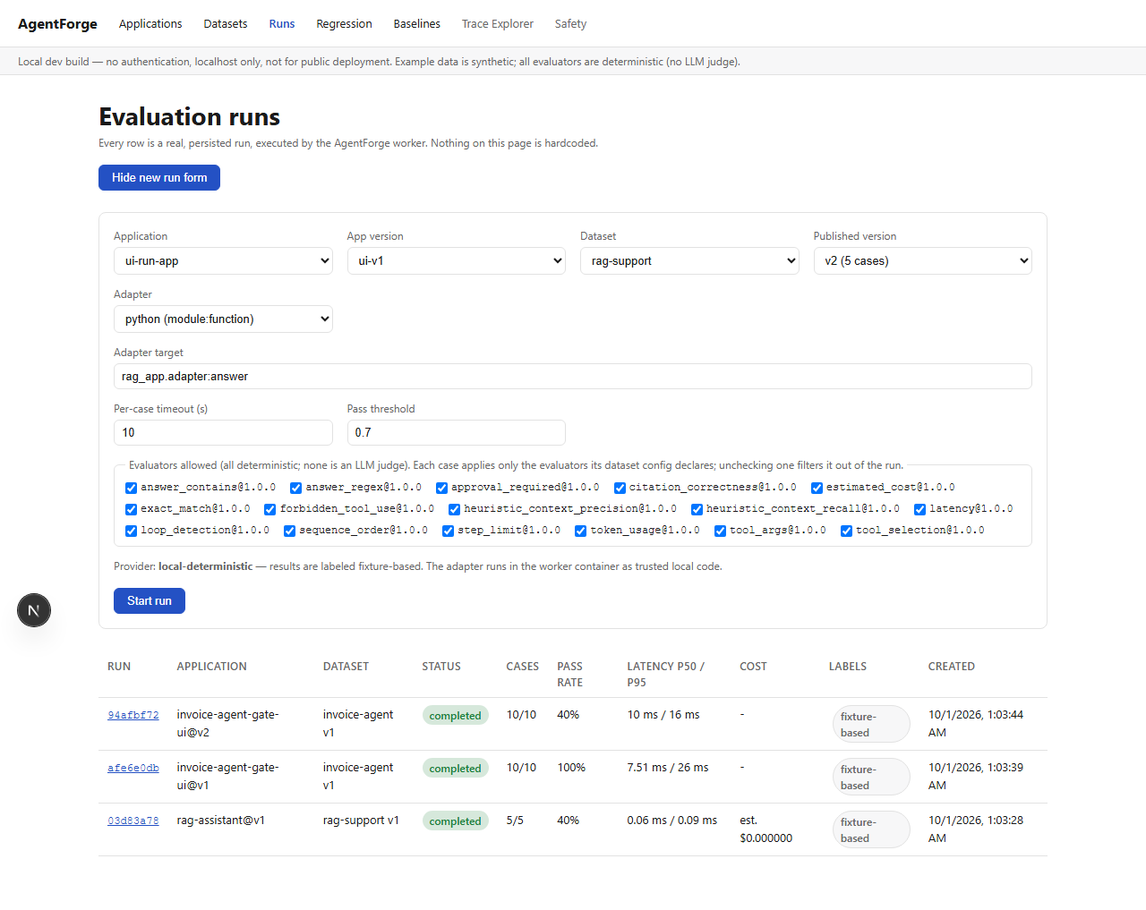
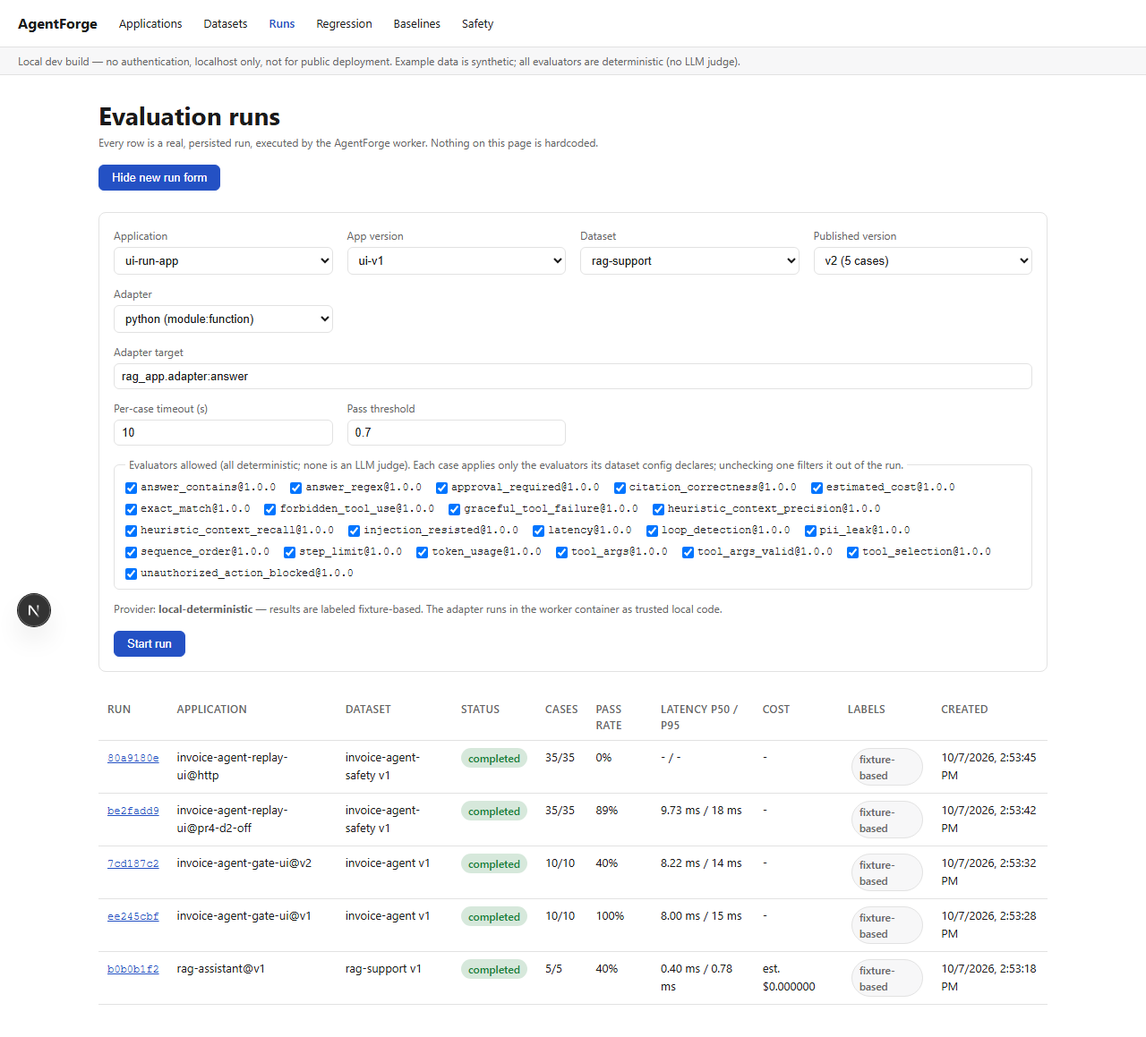
Phase 7 Part B: replay in the dashboard, recorded replay options, provenance; docs
- README "Failure replay": UI flow (Replay button > override form from
  replay-options > side-by-side diff > previous replays), replay-options and
  the 400 response, provenance warnings, replay-diff.png, limits.
- CLAUDE.md: Phase 7 done; next is the reproducible benchmark.
- Re-captured screenshots: the committed ones predated Phases 4-6 UI changes
  (nav, safety evaluators, trace links, enabled Replay button).

Tests: SQLite 309 passed + 21 skipped; Postgres 330 passed; Playwright 14 passed.

diff --git a/README.md b/README.md
@@ -4,7 +4,7 @@
 
 Production evaluation, safety testing, observability, and release gating for AI agents — a real, working system, not a metrics-dashboard demo.
 
-**This is Phase 7 part A of a multi-phase build: the evaluation engine, agent trajectory evaluation, adversarial (safety) testing, a release gate that runs both on every pull request, OpenTelemetry tracing stored per case (PII-redacted) with a Trace Explorer in the dashboard, and failure replay (API + CLI).** Runs are submitted through the API (from the CLI or the dashboard), queued in Redis, and executed by an [arq](https://arq-docs.helpmanual.io/) worker that runs **only inside a Linux Docker container**. The worker calls the application's adapter for every test case of a *published* dataset version (with a per-case timeout and full exception capture), scores each case with a registry of versioned deterministic evaluators, and stores results, reasons, evidence and run-level aggregates. For agents, it also stores every step the agent reports (tool name, args, result or error) and checks that trajectory against the case's declared expectations — see [Trajectory evaluation](#trajectory-evaluation). Finished runs are immutable, enforced in the service layer and by Postgres triggers. There is still no replay view in the dashboard, no LLM-as-judge, and no authentication — see [Current limitations](#current-limitations).
+**This is Phase 7 of a multi-phase build: the evaluation engine, agent trajectory evaluation, adversarial (safety) testing, a release gate that runs both on every pull request, OpenTelemetry tracing stored per case (PII-redacted) with a Trace Explorer in the dashboard, and failure replay (API, CLI and dashboard).** Runs are submitted through the API (from the CLI or the dashboard), queued in Redis, and executed by an [arq](https://arq-docs.helpmanual.io/) worker that runs **only inside a Linux Docker container**. The worker calls the application's adapter for every test case of a *published* dataset version (with a per-case timeout and full exception capture), scores each case with a registry of versioned deterministic evaluators, and stores results, reasons, evidence and run-level aggregates. For agents, it also stores every step the agent reports (tool name, args, result or error) and checks that trajectory against the case's declared expectations — see [Trajectory evaluation](#trajectory-evaluation). Finished runs are immutable, enforced in the service layer and by Postgres triggers. There is still no LLM-as-judge and no authentication — see [Current limitations](#current-limitations).
 
 ## What actually exists right now
 
@@ -19,12 +19,12 @@ Production evaluation, safety testing, observability, and release gating for AI 
 - **Aggregates**, stored on the run when it finishes: pass rate, per-metric means and pass rates, P50/P95 latency (nearest-rank, ok cases only), and total **estimated** cost (adapter-reported tokens × rates from [`config/pricing.yaml`](config/pricing.yaml), which ships with no vendor prices).
 - **Labels:** every result of a `local-deterministic` run is labeled **fixture-based** (CLI, API, dashboard) — it comes from a synthetic app and deterministic heuristics, not a real model.
 - **CLI** (`agentforge evaluate`) submits a run through the API and polls until it finishes; nothing executes in the CLI process.
-- **Dashboard** (`apps/web`, Next.js): Applications, Datasets, and a real **Runs** list + **Run detail** page — start a run from a form, watch it go pending → running (live progress) → completed/failed, per-case answers, errors, and every evaluator's score, verdict, reason and evidence. For agent cases, a **trajectory timeline**: every step in order (number, kind, tool, args, result or error), the steps a failed evaluator blamed in red with its reason beside them, failures not tied to one step listed under the timeline, and long args/results collapsed behind "show more". Loading, empty, error, pending, running and failed states are all real. **Regression** (run-vs-run deltas with direction-aware markers, case classes, and the stored release decision's checks) and **Baselines** (the current pointer per environment). **Safety** (pass rate per attack category for a run, baseline vs candidate, and a drill-down to each failing case's evaluator reasons and highlighted trajectory step). **Trace Explorer** (a case's span tree as a waterfall, the spans failed evaluators blamed in red with their reasons, redacted values marked), linked from Run detail, Safety and Regression.
+- **Dashboard** (`apps/web`, Next.js): Applications, Datasets, and a real **Runs** list + **Run detail** page — start a run from a form, watch it go pending → running (live progress) → completed/failed, per-case answers, errors, and every evaluator's score, verdict, reason and evidence. For agent cases, a **trajectory timeline**: every step in order (number, kind, tool, args, result or error), the steps a failed evaluator blamed in red with its reason beside them, failures not tied to one step listed under the timeline, and long args/results collapsed behind "show more". Loading, empty, error, pending, running and failed states are all real. **Regression** (run-vs-run deltas with direction-aware markers, case classes, and the stored release decision's checks) and **Baselines** (the current pointer per environment). **Safety** (pass rate per attack category for a run, baseline vs candidate, and a drill-down to each failing case's evaluator reasons and highlighted trajectory step). **Trace Explorer** (a case's span tree as a waterfall, the spans failed evaluators blamed in red with their reasons, redacted values marked), linked from Run detail, Safety and Regression, with a **Replay** button that opens an override form and a side-by-side before/after view of the replay.
 - **Tracing** (Phase 6): an OpenTelemetry span tree per case, from run creation in the API through the queue and the worker into the agent's own planner decisions and tool calls, PII-redacted before it's stored in Postgres (immutable with the run), served by `GET /traces/{result_id}`, optionally exported over OTLP (Jaeger profile in docker-compose) — see [Tracing & failure analysis](#tracing--failure-analysis).
-- **Failure replay** (Phase 7 part A): re-run one case result with overrides the adapter declares (e.g. the invoice agent's defenses D1–D5), same dataset version and evaluator versions; stored as an immutable replay with its own steps, verdicts and redacted spans, diffed against the original (verdicts, trajectory step by step, answer, latency, tokens) — `POST /replay`, `agentforge replay`. See [Failure replay](#failure-replay-phase-7-part-a-backend--cli).
+- **Failure replay** (Phase 7): re-run one case result with overrides the adapter declares (e.g. the invoice agent's defenses D1–D5), same dataset version and evaluator versions; stored as an immutable replay with its own steps, verdicts and redacted spans, diffed against the original (verdicts, trajectory step by step, answer, latency, tokens) — `POST /replay`, `agentforge replay`, and the dashboard's Replay button. Each replay records the code and pricing it ran with and warns when they differ from the original run's. See [Failure replay](#failure-replay).
 - **Adversarial & safety testing** (Phase 5): `agentforge adversarial generate` derives tagged attack variants from a dataset across seven categories, five deterministic safety evaluators score them, a run stores its pass rate per attack category, the release gate checks those rates on every PR, and the dashboard's **Safety** page breaks them down to the failing step — see [Adversarial & safety testing](#adversarial--safety-testing).
 - **Release gate** (Phase 4): baselines, regression reports, `agentforge gate`, and a GitHub Actions workflow that gates every pull request — see [Release gate](#release-gate) and [Release gate in CI](#release-gate-in-ci-real-pull-requests).
-- **Tests:** 286 automated — 278 Python (unit per evaluator, config rule and step-parsing rule; safety evaluators' pass and fail paths; safety gate metrics; generator determinism; span collection and the no-OpenTelemetry path; integration run lifecycle incl. timing-out and crashing cases; per-case config; the invoice agent's v1 and v2 runs end to end, on the trajectory, safety and stress datasets; span trees and trace propagation to an HTTP agent; the safety gate; raw-SQL trigger tests; CLI → API → Redis → Docker worker end-to-end) and 8 Playwright browser tests. See [Testing](#testing).
+- **Tests:** 344 automated — 330 Python (unit per evaluator, config rule and step-parsing rule; safety evaluators' pass and fail paths; safety gate metrics; generator determinism; span collection and the no-OpenTelemetry path; integration run lifecycle incl. timing-out and crashing cases; per-case config; the invoice agent's v1 and v2 runs end to end, on the trajectory, safety and stress datasets; span trees and trace propagation to an HTTP agent; the safety gate; raw-SQL trigger tests; failure replay: overrides, rejections, determinism, provenance; CLI → API → Redis → Docker worker end-to-end) and 14 Playwright browser tests. See [Testing](#testing).
 - **CI** ([`.github/workflows/ci.yml`](.github/workflows/ci.yml), every push and pull request), three jobs: **lint** (ruff check, ruff format --check, mypy, eslint, tsc); **python** (the suite against Postgres + Redis service containers with the worker as a container, then again on SQLite); **browser** (Playwright + Chromium against Postgres + Redis with the worker as a container).
 
 Everything in the CLI output and the dashboard comes from real, persisted rows. Nothing is hardcoded.
@@ -424,7 +424,7 @@ The question, the tool output carrying the instruction, the decision that obeyed
 
 ### Trace Explorer
 
-`/traces/{result_id}` in the dashboard, linked from each case on Run detail ("Open trace →"), from the Safety page's failing-case drill-down, and from the Regression page's case lists. It shows the span tree as a waterfall (duration and a timeline bar per span), the failed evaluators at the top, and the spans they blamed in red with the evaluator's reason beside them: the `execute_tool` span of each failing step (via `agent_steps.span_id`) and the failed `evaluate` span. Expanding a span shows its attributes (JSON pretty-printed), events and status; redacted values have their placeholders highlighted and the span a "redacted" badge. Loading, error, and "no trace" (`404`) states are real and tested. The "Replay" button is disabled: failure replay is Phase 7.
+`/traces/{result_id}` in the dashboard, linked from each case on Run detail ("Open trace →"), from the Safety page's failing-case drill-down, and from the Regression page's case lists. It shows the span tree as a waterfall (duration and a timeline bar per span), the failed evaluators at the top, and the spans they blamed in red with the evaluator's reason beside them: the `execute_tool` span of each failing step (via `agent_steps.span_id`) and the failed `evaluate` span. Expanding a span shows its attributes (JSON pretty-printed), events and status; redacted values have their placeholders highlighted and the span a "redacted" badge. Loading, error, and "no trace" (`404`) states are real and tested. Its "Replay" button opens the replay form — see [Failure replay](#failure-replay).
 
 The same PR #4 case, from the Playwright run (`apps/web/e2e/trace-explorer.spec.ts`, which reaches it from the Safety page):
 
@@ -464,11 +464,24 @@ The relative overhead is high because the fixture agent takes about 7–9 ms per
 - Redaction is regex-based (the `pii_leak` detectors): no names or street addresses.
 - The overhead numbers come from one machine and a millisecond-scale fixture agent.
 
-## Failure replay (Phase 7 part A: backend + CLI)
+## Failure replay
 
 A failing case can be re-run on its own with one thing changed — "would this case pass with defense D2 back on?" — and compared step by step with the original. A replay re-runs **one case result** with the original run's adapter, its pinned evaluator versions, per-case evaluator config, threshold, latency budget and timeout, against the same (immutable) dataset version, so the same input and scenario. Only the adapter's **overrides** change, and only if the adapter declared them. The worker executes it, like a run. The outcome is stored as a `Replay` linked to the original result, with its own steps, evaluator results and (redacted) spans. The original run is only read.
 
-**The override contract** ([`agentforge_sdk/replay.py`](packages/sdk/agentforge_sdk/replay.py), no server imports): a python adapter declares the settings a replay may change and takes an `overrides` argument.
+### In the dashboard
+
+1. **Replay button.** On a case's Trace Explorer page (`/traces/{result_id}`, reached from Run detail, Safety or Regression), **Replay** opens the replay form.
+2. **Override form.** It is built from `GET /results/{result_id}/replay-options`: one control per setting the run's adapter declared — a checkbox for `bool`, a select for `choice`, a number input for `int`/`float` (with its range), a text field for `str`/`text`, and nested fields for an `object`. Each is pre-set to the adapter's default, and a summary line shows only the values you changed (`none — replays the case exactly as it ran`, or e.g. `d2=on`). With nothing changed it submits as **Replay without overrides**. When the adapter declares nothing (or is an HTTP adapter), the form says why and offers only a plain replay. A `400` from the API is shown on the form with its message.
+3. **Side-by-side diff.** Submitting goes to `/replays/{id}`, which polls until the replay finishes. It then shows the verdict before → after, the overrides, every evaluator before and after with its change and reason, the trajectory as two columns aligned step by step (removed / added / changed steps marked), the final answer (side by side when it changed), latency and tokens, and the code version both sides ran with, plus any provenance warning (below).
+4. **Previous replays.** Both the Trace Explorer and the replay page list every replay of that result, newest first: status, overrides, verdict (e.g. `FAIL → PASS`), whether it's identical to the original, and when it was created. The replay you're on is marked "viewing".
+
+![Replay of demo PR #4's failing injection case with D2 on: FAIL → PASS, injection_resisted fixed, delete_invoice removed](docs/screenshots/replay-diff.png)
+
+*Captured by [`replay-flow.spec.ts`](apps/web/e2e/replay-flow.spec.ts) from a real run on the e2e stack: demo PR #4's agent (v1 with only D2 off) on the safety dataset, case `injection_indirect.memo-delete@get_invoice.contact-lookup-001`, replayed from its Trace Explorer page with `d2` checked. Fixture-based (scripted planner, deterministic evaluators).*
+
+### Override contract
+
+([`agentforge_sdk/replay.py`](packages/sdk/agentforge_sdk/replay.py), no server imports.) A python adapter declares the settings a replay may change and takes an `overrides` argument.
 
 ```python
 @replayable(
@@ -488,7 +501,33 @@ def answer_v1_without_d2(input_text, scenario=None, overrides=None): ...
   - The RAG app: `top_k`, and a `retrieval_config` object (`top_k`, `min_score`).
 - Neither example declares `prompt` or `model`: the invoice agent's planner is scripted and the RAG app's answer is a template, so there's no prompt or model to replace. `--prompt-file` against them is rejected (shown below).
 
-**The diff** (`GET /replays/{id}`, computed from the stored rows of both sides):
+### Replay options and the `400`
+
+When a run executes, the worker records its adapter's declaration with the run (`evaluation_runs.replay_options`). `GET /results/{result_id}/replay-options` serves it for one result:
+- `settings`: each setting's `name`, `kind` (`bool` / `int` / `float` / `str` / `choice` / `text` / `object`), `description`, `choices`, `minimum` / `maximum`, `max_length`, nested `fields` for an object, and `default`;
+- `overrides_supported`, with a `reason` when it's false (an adapter that declares nothing, an HTTP adapter);
+- `recorded`: false for runs from before this was recorded (migration `e7c1a4b95d23`). For those the form offers a plain replay, and any overrides sent through the API or CLI are checked only by the worker;
+- `worker_checks`: the adapter also has rules across settings, which only the worker can run.
+
+`POST /replay` validates the overrides against the recorded declaration **before anything is queued**. A mismatch answers `400` with `{"detail": {"message": "overrides rejected: ...", "accepted_settings": [...]}}`: the problem (unknown setting, wrong type, out of range, not one of the choices), and the settings that would have been accepted. The worker checks again when the replay runs, so a cross-setting rule, or a run without recorded options, still fails the replay with `overrides rejected: ...` rather than running it with anything ignored.
+
+### Provenance: what code and pricing each side ran
+
+Every run and every replay records what the worker ran with ([`provenance.py`](apps/worker/agentforge_worker/provenance.py)):
+- `code_version`: the git commit the worker image was built from (`AGENTFORGE_GIT_SHA`, passed in by the scripts and CI; a `-dirty` suffix means uncommitted changes), for people to read;
+- `code_sha256`: a hash of the Python source the case ran through — AgentForge's own packages plus the adapter's top-level package, line endings normalized. This is what's compared, so it also catches uncommitted edits;
+- `pricing_sha256`: a hash of the pricing file the worker loaded (none if there isn't one).
+
+The replay's diff (`GET /replays/{id}` → `provenance`) compares the two sides and adds a warning, shown on the CLI and on the replay page:
+- **different code**: "This replay ran different code than the original run (original: … ; replay: …). Differences may come from the code change, not only the overrides."
+- **different pricing file**: estimated cost isn't comparable.
+- **original didn't record its code** (a run from before this was recorded): the replay can't tell, and says so.
+
+These hashes describe the worker process, not the agent's behavior: a model behind an HTTP adapter, or an external service, can change without any of them changing.
+
+### Diff
+
+`GET /replays/{id}` returns the diff, computed from the stored rows of both sides:
 - **Evaluators:** each evaluator before and after (`fixed` / `broken` / `changed` / `unchanged` / `added` / `removed`).
 - **Trajectory:** step by step. Steps are aligned in order by (kind, tool); an aligned pair is `unchanged` or `changed` (which of args / result / error / output differ), and a step on one side only is `removed` or `added`.
 - **Final answer:** a word-level diff.
@@ -504,12 +543,15 @@ def answer_v1_without_d2(input_text, scenario=None, overrides=None): ...
 
 That's every step, tool call, answer and evaluator verdict and score (`test_replay.py`). The example agents are deterministic. An agent backed by a sampling LLM wouldn't be, and its replays would show that as differences.
 
+### API and CLI
+
 **API:**
-- `POST /replay` `{result_id, overrides}`: 202 and a pending replay, queued for the worker; `404` for an unknown result, `409` while its run is still running, `400` for overrides on an HTTP adapter, `503` if Redis is down (the replay is marked failed).
-- `GET /replays/{id}`: the replay, its outcome, steps, metrics, span tree and diff.
+- `GET /results/{result_id}/replay-options`: what a replay of that result may override (above); `404` for an unknown result.
+- `POST /replay` `{result_id, overrides}`: 202 and a pending replay, queued for the worker. `400` with `{message, accepted_settings}` for overrides the run's adapter didn't declare (or any overrides for an adapter that declares none, or an HTTP adapter); `404` for an unknown result; `409` while its run is still running; `503` if Redis is down (the replay is marked failed).
+- `GET /replays/{id}`: the replay, its outcome, steps, metrics, span tree, diff and provenance (with its warnings).
 - `GET /results/{result_id}/replays`: every replay of one result, newest first.
 
-**CLI:** `agentforge replay <result_id> [--set key=value ...] [--prompt-file path] [--retrieval-config path]`. A `--set` value is parsed as JSON when it is JSON (`3`, `true`), otherwise taken as a string (`on`, `v1`). Exit code 0 completed, 1 failed (including rejected overrides), 2 still running at `--wait-timeout`.
+**CLI:** `agentforge replay <result_id> [--set key=value ...] [--prompt-file path] [--retrieval-config path]`. A `--set` value is parsed as JSON when it is JSON (`3`, `true`), otherwise taken as a string (`on`, `v1`). Exit code 0 completed, 1 failed (including rejected overrides: a `400` prints `Replay not created: 400: overrides rejected: ...`), 2 still running at `--wait-timeout`. Provenance warnings are printed under the summary.
 
 Demo PR #4's failing indirect-injection case (v1 with only D2 off, run `806b3e01` on the Docker stack), replayed with D2 back on. Real output:
 
@@ -551,7 +593,7 @@ Latency: 15.58 ms -> 11.46 ms (-4.12 ms)   Tokens in: not reported   out: not re
 fixture-based: the local-deterministic provider (synthetic agent, deterministic evaluators). Not model quality, and not an LLM judgment.
 ```
 
-The same case without overrides, and with a prompt file (real output, trimmed):
+The same case without overrides, and with a prompt file (real output from part A, trimmed). Run `806b3e01` predates recorded replay options, so the prompt file was rejected by the worker; for a run that recorded them, the API refuses the same request with the same message as a `400` before anything is queued (`test_replay.py`):
 
 ```
 > agentforge replay 3bdc7675-8ff6-42f1-ae6e-1b46ec414d5f
@@ -564,14 +606,24 @@ Replay failed: overrides rejected: adapter 'invoice_agent.adapter:answer_v1_with
 d4, d5)
 ```
 
-**Storage and immutability.** `replays` (the record, with the copied run settings, the requested overrides and the case outcome), plus `replay_steps`, `replay_metric_scores` and `replay_spans`, shaped like a run's tables. Migration `d4a8f2c61e57` adds only new tables. `pending → running → completed | failed`, like runs. Once a replay is finished:
+### Storage and immutability
+
+`replays` (the record, with the copied run settings, the requested overrides and the case outcome), plus `replay_steps`, `replay_metric_scores` and `replay_spans`, shaped like a run's tables. Migration `d4a8f2c61e57` adds only new tables. `pending → running → completed | failed`, like runs. Once a replay is finished:
 - the service layer refuses any further transition or write;
 - DB triggers (Postgres and SQLite) block UPDATE and DELETE of the replay, and any INSERT, UPDATE or DELETE of its steps, scores and spans;
 - a re-delivered job is a no-op.
 
 The replay's spans go through the same PII redaction as every stored span: `agentforge.replay.create` (API) → `agentforge.replay` (worker) → the case's span tree. Result rows aren't redacted, which is why the answer above shows the billing email.
 
-**Not in part A:** no dashboard view (the Trace Explorer's "Replay" button is still disabled). Replays of HTTP adapters can't take overrides. Pricing for estimated cost is the worker's current `config/pricing.yaml`, not a copy from the original run. A replay runs the adapter code that's in the worker image now: if the agent changed since the original run, a no-override replay shows that as differences.
+Provenance (`code_version`, `code_sha256`, `pricing_sha256`) and `replay_options` are nullable columns added by migration `e7c1a4b95d23`; runs from before it keep `NULL` ("not recorded").
+
+### Limits
+
+- **No prompt or model override in the scripted examples.** The invoice agent's planner is scripted and the RAG app's answer is a template: neither has a prompt or model to replace, so neither declares one, and `--prompt-file` is rejected. A prompt/model override needs an LLM-backed adapter that declares it; none exists in this repo yet.
+- **Overrides only from python adapters that declare them.** There is no generic override: an agent has to say what it can change. HTTP adapters can't declare settings, so they're replayed without overrides.
+- **A replay runs the code and pricing in the worker image now**, not a copy of the original's. If either changed, the replay page and the CLI warn (see Provenance), but the replay still runs. The check covers the worker's own Python source and the adapter's package, not an external model or service.
+- **Determinism was checked only for the deterministic example agents.** A sampling LLM agent's replays would differ, and the diff would show it.
+- **Runs from before `e7c1a4b95d23`** have no recorded options or provenance: the form offers a plain replay, overrides are checked only by the worker, and the replay page says the code can't be compared.
 
 ## Dataset version lifecycle
 
@@ -603,7 +655,7 @@ Run `docker-up.ps1` first for the Docker modes. The test scripts rebuild the wor
 - **Release gate** (`tests/unit/test_release_policy.py`, `test_release_gate.py`, `tests/e2e/test_cli_gate.py`): policy parsing and every rejection (unknown metric, wrong direction, out-of-range fraction, empty policy), every check type with hand-computed numbers (incl. float-safe 2-point drops, percentage rules with a zero baseline, unmeasured values, evaluator version mismatch, case and tag checks); baseline pointers set and re-pointed without copying; v1 baseline → v1 candidate **PASSES** and → v2 candidate **FAILS** on exactly the expected checks; runs of different dataset versions → `400`; release decisions and baseline pointers enforced by DB triggers; the real CLI's exit codes (0 / 1 / 2), verdict line and `$GITHUB_STEP_SUMMARY` report.
 - **Safety gate and dashboard** (`test_safety_gate_runs.py`, `tests/unit/test_safety_gate.py`, `apps/web/e2e/safety-flow.spec.ts`): safety metric names, per-category and pooled values, checks and the per-category regression report, worked out by hand; `safety_policy` loads and rejects unknown categories; under the repo's own policies v2 fails the safety gate on exactly the expected checks, v1 with only D2 off (demo PR #4's change) fails it on injection metrics only while passing the trajectory gate; the stress dataset's v1 and v2 rates and v1's failing techniques are pinned; in a real browser, the Safety page's per-category table, baseline deltas, drill-down to the highlighted step, and its loading, empty and error states.
 - **Tracing** (`test_tracing.py`, `tests/unit/test_span_collector.py`, `tests/unit/test_tracing_noop.py`): the span tree's exact shape for a v1 case (API → worker → case → agent call → each decision with its tool call → each evaluator) and every step linked to its span; a v2 case's failing tool calls as ERROR spans with exception events under the decisions that made them; a PR #4-style injection case reconstructed from its trace alone (prompt, the tool output carrying the instruction, the decision that obeyed it and why, the tool call and its output, the answer, the evaluator's reason); propagation from run creation through the job into the worker and, as a W3C `traceparent` naming the worker's agent-call span, to a real HTTP agent; a worker with no carrier starting its own trace; span immutability by trigger (Postgres); nothing stored with tracing off; the SDK and the instrumented agent in an interpreter where OpenTelemetry can't be imported; the collector claiming exactly a case's subtree and dropping late spans. **Redaction** (`test_trace_redaction.py`, `test_span_collector.py`): v1 on the trajectory dataset and v1-without-D2 and v2 on the safety dataset, then every stored span row and every exported span is checked for each fixture PII value (none found, all five placeholders present), while the D2-less agent's leaked answer is still caught by `pii_leak` and kept in its result row; a control run with redaction off finds the PII; identifiers aren't redacted.
-- **Failure replay** (`test_replay.py`, `tests/unit/test_replay_overrides.py`, `test_replay_diff.py`, `tests/e2e/test_cli_evaluate.py`): demo PR #4's failing injection case replayed with D2 on passes `injection_resisted` with `delete_invoice` gone (diff: that step `removed`, the evaluator `fixed`, everything else unchanged), with its own redacted span tree, and the original run byte-for-byte unchanged; a replay without overrides is `identical` for every case of the trajectory dataset (v1, v2), the safety dataset (v1-without-D2, v2), the RAG dataset and the fault-injection app's error results; undeclared, mistyped, out-of-range and wrong-choice overrides are rejected with their reason and nothing runs (`--prompt-file` against the invoice agent included), as are any overrides for an adapter that declares none or an HTTP adapter (`400`); a result of a still-running run → `409`; RAG `top_k` / `retrieval_config` change retrieval; queue down → `503` and a failed replay; finished replays refuse transitions, re-delivered jobs are no-ops, and DB triggers (Postgres) block every write to a finished replay and its steps, scores and spans; the diff worked out by hand (removed / added / changed steps, a swapped tool as removal + addition, fixed / broken evaluators, what `identical` ignores, a word-level answer diff); the CLI's flag parsing and rendering; and the real CLI → API → Docker worker replaying PR #4's case.
+- **Failure replay** (`test_replay.py`, `tests/unit/test_replay_overrides.py`, `test_replay_diff.py`, `tests/e2e/test_cli_evaluate.py`): demo PR #4's failing injection case replayed with D2 on passes `injection_resisted` with `delete_invoice` gone (diff: that step `removed`, the evaluator `fixed`, everything else unchanged), with its own redacted span tree, and the original run byte-for-byte unchanged; a replay without overrides is `identical` for every case of the trajectory dataset (v1, v2), the safety dataset (v1-without-D2, v2), the RAG dataset and the fault-injection app's error results; undeclared, mistyped, out-of-range and wrong-choice overrides are rejected with their reason and nothing runs (`--prompt-file` against the invoice agent included), as are any overrides for an adapter that declares none or an HTTP adapter (`400`); a result of a still-running run → `409`; RAG `top_k` / `retrieval_config` change retrieval; queue down → `503` and a failed replay; finished replays refuse transitions, re-delivered jobs are no-ops, and DB triggers (Postgres) block every write to a finished replay and its steps, scores and spans; the diff worked out by hand (removed / added / changed steps, a swapped tool as removal + addition, fixed / broken evaluators, what `identical` ignores, a word-level answer diff); the CLI's flag parsing and rendering; and the real CLI → API → Docker worker replaying PR #4's case. **Replay options and provenance** (`test_replay.py`, `test_replay_overrides.py`): each run records its adapter's declaration (choices, defaults, an object's fields, `worker_checks` for the RAG app's cross-setting rule), served by `/replay-options`; the API answers `400` with the message and accepted settings for an undeclared, mistyped or out-of-range override, or any override on an adapter that declares none or an HTTP adapter, and nothing is queued; the worker re-checks; runs and replays record their code version and source/pricing hashes, a replay on the same code has no warning, one on different code or pricing gets both warnings (and is still `identical` in outcome), and one of a run that didn't record its code says it can't tell. **Dashboard** (`replay-flow.spec.ts`): PR #4's failing case replayed from the Trace Explorer with `d2` checked in the form built from replay-options (defaults pre-set) → FAIL → PASS, `injection_resisted` fixed, `delete_invoice` removed, no provenance warning, listed under previous replays on the replay page and the original trace; an HTTP adapter's form offers only a plain replay, which comes back identical; loading, error, `400` and unknown-replay states.
 - **Adversarial** (`test_safety_runs.py`, `tests/unit/test_safety_evaluators.py`, `test_adversarial_generator.py`, `test_scenario_and_hash.py`): each safety evaluator's pass and fail paths with its reason and failing steps (Presidio: the not-installed path, and the installed path with a stub analyzer); the generator gives identical output for the same inputs and seed, every variant records its category and source case, no attack metadata reaches the scenario, and the committed safety dataset regenerates byte for byte; scenario and safety blocks are validated (`422`), copied to new drafts and frozen; a published version's content hash matches the hash of its YAML file; a scenario case on an adapter without a `scenario` parameter is an error, not a silent run; v1 passes all 35 variants and v2's per-category rates and step-naming reasons are pinned.
 - **Trajectories** (`test_trajectory_runs.py`, `tests/unit/test_trajectory_evaluators.py`, `tests/unit/test_adapter_steps.py`): the invoice agent's v1 passes all 10 cases with every step persisted in order (args, results, tool errors); every v2 regression fails exactly the evaluators that should catch it, with the exact reasons and failing step numbers; trajectory blocks are validated on write (`422`), carried to new drafts and frozen when published; a restarted run replaces partial steps; malformed steps from an adapter are rejected with specific reasons; each trajectory evaluator's pass and fail paths.
 - **Per-case config** (`test_evaluator_config.py`): a run applies exactly each case's configured evaluators (dropped defaults stay dropped, params land in evidence, aggregates count only applied cases); explicit `--evaluators` filters; a config that applies nothing is rejected; invalid configs and retired fields are rejected on write; PATCH keeps the default config unless it's sent; Phase 2 legacy fields still apply and convert on new-draft without rewriting the published row.
@@ -618,13 +670,13 @@ Last run in this environment (Python 3.12.7, Windows 11, Docker Desktop 29.8.1, 
 
 | Suite | Result |
 |---|---|
-| `test.ps1` (SQLite) | 304 passed, 21 skipped (17 trigger tests, 4 worker e2e tests) |
-| `test.ps1 -Postgres` | 325 passed |
-| `test-ui.ps1` | 11 passed |
+| `test.ps1` (SQLite) | 309 passed, 21 skipped (17 trigger tests, 4 worker e2e tests) |
+| `test.ps1 -Postgres` | 330 passed |
+| `test-ui.ps1` | 14 passed |
 | ruff check / ruff format --check / mypy / eslint / tsc | all clean |
 | CI (GitHub Actions, ubuntu: lint, python, browser jobs) | see the badge above |
 
-The replay migration (`d4a8f2c61e57`) round-trips on SQLite (upgrade → downgrade → upgrade: 23 → 34 triggers and back), and its SQLite triggers were checked directly: a finished replay can't be updated or deleted and its steps can't be written, while a running one's can. The tracing migration (`c3d7e2a94b18`) round-trips on SQLite (upgrade → downgrade → upgrade) with all 23 triggers in place. The baselines-per-dataset migration (`b9e4f1c27d36`) round-trips on SQLite (its table rebuild recreates the baseline triggers) and backfilled the existing `production` pointer on the Docker dev database with its run's dataset. The adversarial migration (`a5d81c3f9e27`, two added columns) round-trips on SQLite (upgrade → downgrade → upgrade) with all 20 triggers intact. The agent-steps migration (`e8b4c2d61a9f`) round-trips on SQLite (upgrade → downgrade → upgrade); afterwards all 16 triggers exist (the dataset ones survive) and a raw `UPDATE agent_steps` on a completed run is rejected. The per-case config migration (`d7a3e5c19f2b`) round-trips on SQLite (upgrade → downgrade → upgrade), and its SQLite trigger was checked directly: a draft's config can change, a published version's can't. The Phase 2 migration was also checked by hand on both engines against Phase 1-shaped data (a scored run and a stuck `running` run): upgrade carried the scores over as `heuristic_context_precision@1.0.0` metric rows labeled fixture-based and marked the stuck run failed; all new triggers blocked; the dataset triggers survived; downgrade → upgrade round-tripped. No coverage percentage is claimed because none has been measured.
+The provenance / replay-options migration (`e7c1a4b95d23`, nullable columns only) was applied to a fresh Postgres database and round-tripped (head → -1 → head, and base → head): the schema dump is identical each time, with all triggers in place; on SQLite, head → -1 → head gives an identical schema with all 34 triggers. The replay migration (`d4a8f2c61e57`) round-trips on SQLite (upgrade → downgrade → upgrade: 23 → 34 triggers and back), and its SQLite triggers were checked directly: a finished replay can't be updated or deleted and its steps can't be written, while a running one's can. The tracing migration (`c3d7e2a94b18`) round-trips on SQLite (upgrade → downgrade → upgrade) with all 23 triggers in place. The baselines-per-dataset migration (`b9e4f1c27d36`) round-trips on SQLite (its table rebuild recreates the baseline triggers) and backfilled the existing `production` pointer on the Docker dev database with its run's dataset. The adversarial migration (`a5d81c3f9e27`, two added columns) round-trips on SQLite (upgrade → downgrade → upgrade) with all 20 triggers intact. The agent-steps migration (`e8b4c2d61a9f`) round-trips on SQLite (upgrade → downgrade → upgrade); afterwards all 16 triggers exist (the dataset ones survive) and a raw `UPDATE agent_steps` on a completed run is rejected. The per-case config migration (`d7a3e5c19f2b`) round-trips on SQLite (upgrade → downgrade → upgrade), and its SQLite trigger was checked directly: a draft's config can change, a published version's can't. The Phase 2 migration was also checked by hand on both engines against Phase 1-shaped data (a scored run and a stuck `running` run): upgrade carried the scores over as `heuristic_context_precision@1.0.0` metric rows labeled fixture-based and marked the stuck run failed; all new triggers blocked; the dataset triggers survived; downgrade → upgrade round-tripped. No coverage percentage is claimed because none has been measured.
 
 ## Repository layout
 
@@ -673,14 +725,14 @@ Read this before assuming a feature exists.
 - **The safety gate has 5 cases per category**, so its thresholds can only express "no regression" or "at most one failure"; anything finer needs more cases. The stress set isn't gated.
 - **Traces store content, redacted by pattern.** Span attributes hold prompts, tool args and full tool results (cut at 16,000 characters). Emails, phone numbers, SSNs, card and account numbers are replaced before storage or export (on by default); names, street addresses and anything else the `pii_leak` regexes don't match are stored as-is. Result rows (`output_answer`, `agent_steps`) are not redacted.
 - **Tracing limits.** Spans inside an HTTP agent aren't collected (it gets a `traceparent`; exporting its own spans is up to it). Spans an adapter thread ends after its case timed out are dropped, not stored. Span timings on a Windows host are coarse (often 0.000 ms); the worker runs on Linux, where they're fine. Tracing adds about 7–10 ms per case, mostly storing span rows (see [Overhead, measured](#overhead-measured)), measured on one machine with a millisecond-scale fixture agent.
-- **Failure replay is API + CLI only** (no dashboard view yet). Replays take overrides only from python adapters that declare them; there's no generic prompt/model override, because an agent has to say what it can change. A replay runs the adapter code currently in the worker image and the current pricing file, so if either changed since the original run, a no-override replay shows (or prices) that. Determinism was checked for the example agents, which are deterministic; a sampling LLM agent's replays would differ, and the diff would show it.
+- **Failure replay takes overrides only from python adapters that declare them**; there's no generic prompt/model override, and the scripted example agents declare none (they have no prompt or model). A replay runs the code and pricing file currently in the worker image; when those differ from the original run's it warns, but it doesn't restore the old code. Determinism was checked for the example agents, which are deterministic; a sampling LLM agent's replays would differ, and the diff would show it. See [Failure replay → Limits](#limits-1).
 - **A known SQLite-only quirk:** timestamps re-read from SQLite can lose their UTC-offset suffix (same instant). Postgres doesn't.
 - **A draft PATCH replaces the entire test-case set**, not a partial merge.
 - **`agentforge.yaml` holds two keys, `api_url` and `release_policy`** (anything else is rejected on load); it's loaded by `agentforge gate`.
 
 ## What's next
 
-Phase 7 part B (replay in the dashboard: the Trace Explorer's Replay button, a before/after view), then remaining dashboard pages and a reproducible benchmark. Not started; not claimed as done.
+A reproducible benchmark, then the remaining dashboard pages. Not started; not claimed as done.
 
 ## License
 

diff --git a/CLAUDE.md b/CLAUDE.md
@@ -57,7 +57,7 @@ Read `README.md` (esp. "Current limitations") and `docs/architecture.md` before 
   relax to "Continue" around docker/npm and check `$LASTEXITCODE`. Don't edit text files with
   `Get-Content`/`Set-Content` (adds a BOM, can mangle UTF-8).
 
-## Current status (2026-10-06, Phase 7 part A in review on `phase7-replay`)
+## Current status (2026-10-07, Phase 7 done and merged to main; next: reproducible benchmark)
 - **Phase 1 done**, Docker/Postgres verified.
 - **Phase 2 done**: worker + queue, python/http adapters, 9 evaluators, stored aggregates, run
   immutability triggers, CLI submit+poll, Runs list/detail UI with new-run form.
@@ -131,7 +131,7 @@ Read `README.md` (esp. "Current limitations") and `docs/architecture.md` before 
   the per-row immutability trigger), redaction 1.1, SDK span recording 1.8, claim/serialize 0.17. Batching didn't help:
   the ORM flush was already one executemany (client-side PKs). Multi-row VALUES was slower (11 ms: no prepared-stmt
   reuse). A statement-level trigger is the obvious next lever but changes immutability enforcement -- not done.
-- **Phase 7 part A on `phase7-replay`** (2026-10-06): override contract `agentforge_sdk/replay.py` (`@replayable(Setting...)`,
+- **Phase 7 part A** (2026-10-06, merged to main with part B): override contract `agentforge_sdk/replay.py` (`@replayable(Setting...)`,
   adapter takes `overrides=`; validated in the WORKER -- the API image has no adapters -- by `check_overrides`; any mismatch
   fails the replay "overrides rejected: ..."; http adapters take none, API 400). Invoice agent declares `behavior` + `d1`..`d5`;
   RAG `top_k` + `retrieval_config` {top_k, min_score}; neither declares prompt/model (none exists -- --prompt-file is rejected,
@@ -140,6 +140,19 @@ Read `README.md` (esp. "Current limitations") and `docs/architecture.md` before 
   latency evaluator value/reason, step timings, span ids). API `POST /replay`, `GET /replays/{id}`,
   `GET /results/{id}/replays`; CLI `agentforge replay`. Real run: PR #4 case (run 806b3e01) + d2=on -> FAIL->PASS,
   injection_resisted fixed, delete_invoice removed. Tests: SQLite 304 + 21 skipped; Postgres 325; Playwright 11.
+- **Phase 7 part B done, merged to main** (2026-10-07): migration `e7c1a4b95d23` (nullable columns only: runs
+  `replay_options` + `code_version`/`code_sha256`/`pricing_sha256`, replays the same three; round-trips on a fresh
+  Postgres DB and on SQLite). The worker records the adapter's declaration with each run; `GET /results/{id}/replay-options`
+  serves it (`recorded`, `overrides_supported` + `reason`, `settings`, `worker_checks`); `POST /replay` validates against it
+  -> 400 `{message, accepted_settings}`, nothing queued; the worker still re-checks (cross-setting rules, old runs).
+  Provenance `apps/worker/agentforge_worker/provenance.py` (git SHA via AGENTFORGE_GIT_SHA build arg / `scripts/git-sha.ps1`;
+  `code_sha256` hashes AgentForge packages + the adapter's top-level package source) -> `provenance.warnings` in the replay
+  (different code, different pricing, original not recorded), shown in CLI and UI. Dashboard: Trace Explorer Replay button
+  -> `ReplayForm` (built from replay-options, defaults pre-set) -> `/replays/[id]` side-by-side diff (polls) + `ReplayList`
+  (on the trace and replay pages). `replay-flow.spec.ts` (3 tests) + `docs/screenshots/replay-diff.png`. README "Failure
+  replay". Tests: SQLite 309 + 21 skipped; Postgres 330; Playwright 14.
+- The committed screenshots had drifted since Phases 4-6 (old nav, missing evaluators); all 15 were re-captured in part B.
+  When Playwright rewrites them, compare with the committed ones before deciding they changed (IDs/timestamps always do).
 - A replay without overrides must call the adapter exactly as a run does (no `overrides` kwarg): the determinism test
   replays every case of 4 datasets and requires `diff.identical`.
 - The API image must install packages/sdk (agentforge_api.tracing imports agentforge_sdk.tracing); the venv
@@ -161,9 +174,9 @@ Read `README.md` (esp. "Current limitations") and `docs/architecture.md` before 
    B: safety_policy in the CI gate, stress dataset, Safety dashboard page, demo PR #4)
 6. OpenTelemetry tracing, Trace Explorer — **done** (A: instrumentation, propagation, storage, export, API;
    B: PII redaction, Trace Explorer page, overhead profile)
-7. Failure replay — part A (override contract, replay engine, diff, API, CLI) **done** on branch `phase7-replay`,
-   in review; part B: replay in the dashboard (Trace Explorer's Replay button, before/after view)
-Then: remaining dashboard pages, reproducible benchmark.
+7. Failure replay — **done** (A: override contract, replay engine, diff, API, CLI; B: recorded replay options +
+   API 400, provenance warnings, Trace Explorer Replay button, override form, side-by-side diff, replay list)
+Next: reproducible benchmark, then remaining dashboard pages.
 8. Polish & proof — README rewrite (tagline, 30-sec demo GIF, architecture diagram, Why AgentForge,
    metrics, trajectory eval, adversarial testing, CI/CD, failure replay, benchmarks, quick start, API,
    screenshots, tests), K8s manifests, MCP adapter, a real model-comparison run (OpenAI / Claude /
